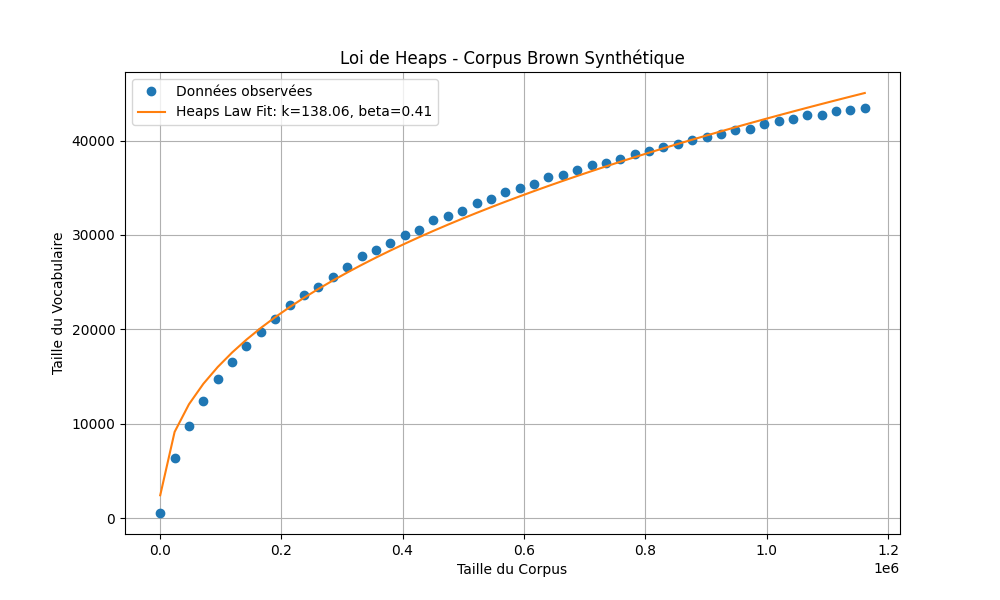
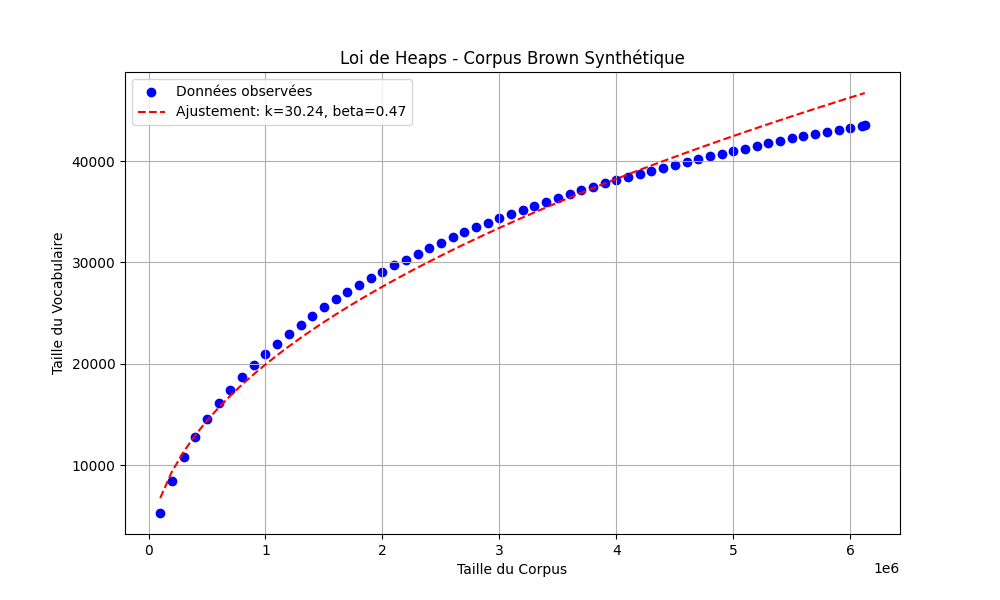
Add utility functions for vocabulary extraction, compression ratio measurement, and entropy calculation; enhance corpus analysis with detailed metrics and visualizations

diff --git a/projet_ia_info/projet_ia_info/generate_texte.py b/projet_ia_info/projet_ia_info/generate_texte.py
@@ -2,18 +2,25 @@ import nltk
 from nltk.corpus import brown
 from nltk.probability import FreqDist
 import matplotlib.pyplot as plt
-import random
 import ssl
 import numpy as np
+import string
+import gzip
 from scipy.optimize import curve_fit
+import json
+import os
+import random
+from math import log2
 
 # Gestion des certificats SSL pour le téléchargement
 try:
     _create_unverified_https_context = ssl._create_unverified_context
+    print("Configuration SSL ajustée pour un contexte non vérifié.")
 except AttributeError:
-    pass
+    print("Échec de la modification de la configuration SSL, la fonction n'existe pas.")
 else:
     ssl._create_default_https_context = _create_unverified_https_context
+    print("Contexte SSL par défaut établi pour une vérification non stricte.")
 
 # Télécharger les ressources nécessaires
 try:
@@ -36,12 +43,65 @@ print(f"Nombre de mots uniques dans le corpus Brown: {len(fdist)}")
 def heaps_law(x, k, beta):
     return k * x ** beta
 
-# Générer un texte synthétique et mesurer la croissance du vocabulaire
+# Fonctions utilitaires
+def extract_vocabulary_size(corpus):
+    words = nltk.word_tokenize(corpus)
+    fdist = FreqDist(words)
+    return len(fdist)
+
+def measure_compression_ratio(corpus_text):
+    text_bytes = corpus_text.encode('utf-8')
+    compressed = gzip.compress(text_bytes)
+    return len(compressed) / len(text_bytes)
+
+def calculate_entropy(corpus_text):
+    words = nltk.word_tokenize(corpus_text)
+    fdist = FreqDist(words)
+    total_words = len(words)
+    probabilities = [freq / total_words for freq in fdist.values()]
+    entropy = -sum(p * log2(p) for p in probabilities)
+    return entropy
+
+def add_top_words_box(ax, corpus_name, corpus_text, top_n=10):
+    words = nltk.word_tokenize(corpus_text)
+    fdist = FreqDist(words)
+    most_common_words = fdist.most_common(top_n)
+    text = f"Top {top_n} mots pour {corpus_name}:\n" + "\n".join([f"{rank+1}. {word} ({freq})" for rank, (word, freq) in enumerate(most_common_words)])
+    ax.text(0.95, 0.95, text, transform=ax.transAxes, fontsize=10, verticalalignment='top', horizontalalignment='right', bbox=dict(facecolor='white', alpha=0.8, edgecolor='gray'))
+
+def analyze_corpus(corpus_name, corpus_text):
+    print(f"Commence l'analyse du corpus: {corpus_name}")
+    corpus_sizes = []
+    vocab_sizes = []
+    step_size = 100000
+    for i in range(0, len(corpus_text), step_size):
+        subset = corpus_text[:i + step_size]
+        corpus_sizes.append(len(subset))
+        vocab_sizes.append(extract_vocabulary_size(subset))
+        print(f"Taille du corpus analysé jusqu'à {i + step_size} caractères.")
+    
+    log_corpus_sizes = np.log(corpus_sizes)
+    log_vocab_sizes = np.log(vocab_sizes)
+
+    params, _ = curve_fit(lambda x, a, b: a + b * x, log_corpus_sizes, log_vocab_sizes)
+    log_k, beta = params
+    k = np.exp(log_k)
+    
+    print(f"Paramètres estimés (log-log) pour {corpus_name}: K = {k:.2f}, β = {beta:.2f}")
+    
+    compression_ratio = measure_compression_ratio(corpus_text)
+    print(f"Ratio de compression pour {corpus_name} : {compression_ratio:.2f}")
+
+    entropy = calculate_entropy(corpus_text)
+    print(f"Entropie pour {corpus_name} : {entropy:.2f}")
+    return corpus_sizes, vocab_sizes, k, beta
+
+# Génération de textes synthétiques et mesure de la croissance du vocabulaire
+print("Génération de textes synthétiques...")
 text_lengths = np.linspace(1000, len(words), 50)
 vocab_sizes = []
 corpus_sizes = []
 
-print("Génération de textes synthétiques et mesure de la croissance du vocabulaire...")
 for index, length in enumerate(text_lengths):
     synthetic_text = ' '.join(random.choices(population=list(fdist.keys()), weights=list(fdist.values()), k=int(length)))
     synthetic_words = nltk.word_tokenize(synthetic_text)
@@ -50,14 +110,12 @@ for index, length in enumerate(text_lengths):
     corpus_sizes.append(length)
     print(f"Étape {index+1}/{len(text_lengths)}: Taille du corpus généré = {length}, Taille du vocabulaire = {len(synthetic_fdist)}")
 
-# Tracer la loi de Heaps
-print("Ajustement de la loi de Heaps...")
-params, _ = curve_fit(heaps_law, corpus_sizes, vocab_sizes)
-k, beta = params
+corpus_name = "Synthetic Text"
+corpus_sizes, vocab_sizes, k, beta = analyze_corpus(corpus_name, synthetic_text)
 
 plt.figure(figsize=(10, 6))
-plt.plot(corpus_sizes, vocab_sizes, 'o', label='Données observées')
-plt.plot(corpus_sizes, heaps_law(np.array(corpus_sizes), *params), '-', label=f'Heaps Law Fit: k={k:.2f}, beta={beta:.2f}')
+plt.scatter(corpus_sizes, vocab_sizes, color='blue', label='Données observées')
+plt.plot(corpus_sizes, [heaps_law(x, k, beta) for x in corpus_sizes], 'r--', label=f'Ajustement: k={k:.2f}, beta={beta:.2f}')
 plt.xlabel('Taille du Corpus')
 plt.ylabel('Taille du Vocabulaire')
 plt.title('Loi de Heaps - Corpus Brown Synthétique')
@@ -65,7 +123,9 @@ plt.legend()
 plt.grid(True)
 plt.show()
 
-# Fonction pour tracer la loi de Zipf
+print()
+
+# Tracer la loi de Zipf pour un texte synthétique de taille maximale
 def plot_zipf_law(text):
     print("Tracé de la loi de Zipf...")
     words = nltk.word_tokenize(text)
@@ -73,7 +133,6 @@ def plot_zipf_law(text):
     ranks = range(1, len(fdist) + 1)
     max_rank = 100
     sorted_frequencies = sorted(fdist.values(), reverse=True)
-    
     plt.figure(figsize=(8, 6))
     plt.plot(ranks[:max_rank], sorted_frequencies[:max_rank], marker='.', linestyle='None')
     plt.title('Loi de Zipf du Texte Synthétique - Corpus Brown')
@@ -82,5 +141,4 @@ def plot_zipf_law(text):
     plt.grid(True)
     plt.show()
 
-# Tracer la loi de Zipf pour un texte synthétique de taille maximale
-plot_zipf_law(' '.join(random.choices(population=list(fdist.keys()), weights=list(fdist.values()), k=len(words))))
+plot_zipf_law(synthetic_text)
